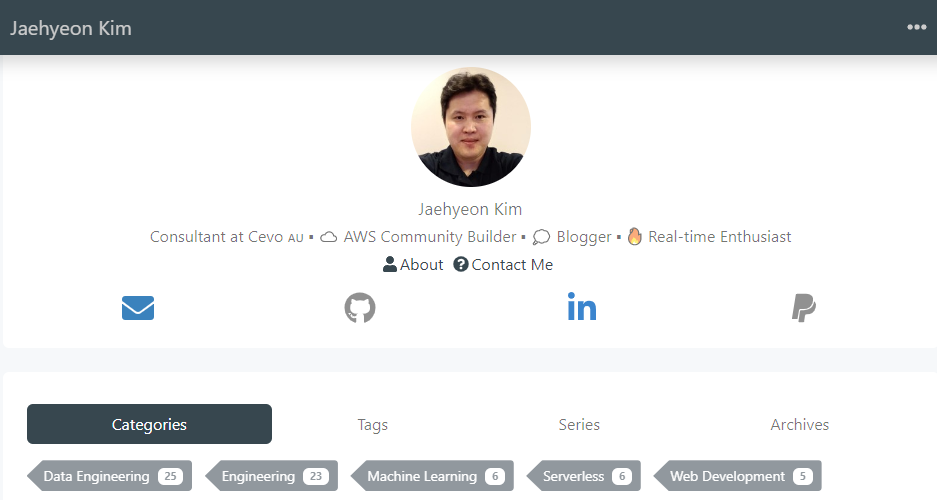
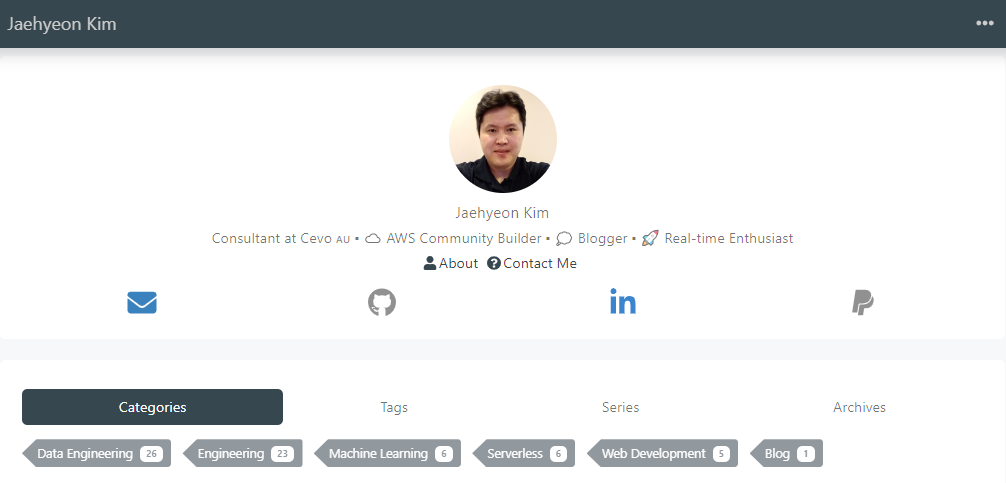
update config

diff --git a/README.md b/README.md
@@ -1,121 +1,5 @@
-# Hugo Theme Bootstrap Skeleton
+## Jaehyeon's Website
 
-The starter template for [Hugo Bootstrap Theme](https://github.com/razonyang/hugo-theme-bootstrap) that install the theme as a Hugo module.
+Jaehyeon works as a consultant focused on working with customers to design and build their data and analytics solutions on AWS. He is a real-time enthusiast and writes posts on AWS, Data, Analytics, Containers and Serverless.
 
-## Demo
-
-| Platform | URL |
-|---|---|
-| Netlify | https://hbs-skeleton.netlify.app/ |
-| GitHub Pages | https://projects.razonyang.com/hugo-theme-bootstrap-skeleton/ |
-| Cloudflare Pages | https://hbs-skeleton.pages.dev/ |
-| Docker image | See also [Dockerfile](Dockerfile) |
-
-## Usage
-
-Please make sure you have install the [build tools](https://hbs.razonyang.com/v1/en/docs/getting-started/prerequisites/#build-tools) prior to using this template.
-
-**1. Clone this repository**
-
-It's recommending cloning the repo by clicking the `Use this template` button, if you're hosting your code on GitHub.
-
-You can also clone it manually.
-
-```shell
-$ git clone https://github.com/razonyang/hugo-theme-bootstrap-skeleton.git blog
-$ cd blog
-$ rm -rf .git
-$ git init -b main
-```
-
-> The `rm -rf .git` is a dangerous action, please make sure that you enter the right folder.
-
-**2. Modify the `go.mod`**
-
-Replace the following line to yours, such as `module github.com/user/repo`.
-
-```text
-module github.com/razonyang/hugo-theme-bootstrap-skeleton
-```
-
-**3. Commit and push changes to your repository**
-
-```shell
-$ git add -A
-$ git commit -m 'First commit'
-$ git remote set-url origin github.com/user/repo
-$ git push origin main
-```
-
-## Go Proxy(Optional)
-
-If you're located at China mainland without VPN, the Hugo module download may fail.
-
-There are two proxies for this: [GOPROXY.CN](https://goproxy.cn) and [GOPROXY.IO](https://goproxy.io).
-
-```bash
-$ export HUGO_MODULE_PROXY=https://goproxy.cn
-```
-
-> Please note that, Hugo doesn't respect the `GOPROXY` env var, please use `HUGO_MODULE_PROXY` instead.
-
-You can also set the `module.proxy` instead of using env var.
-
-```yaml
-module:
-  proxy: https://goproxy.cn
-```
-
-## Server
-
-**1. Install dependencies**
-
-```shell
-$ npm i
-```
-
-Generally, this step only needs to be performed once for each local project.
-
-**2. Start server**
-
-```shell
-$ hugo server
-```
-
-## Upgrade theme
-
-```shell
-$ hugo mod get github.com/razonyang/hugo-theme-bootstrap@master
-$ hugo mod npm pack
-$ npm update
-$ git add go.mod go.sum package.json package-lock.json
-$ git commit -m 'Update the theme'
-```
-
-You can also replace the `master` with stable [releases](https://github.com/razonyang/hugo-theme-bootstrap/releases).
-
-## Deployment
-
-> The `baseURL` is very important, the CSS, JS and Sitemap require it to be set.
-
-**Please make sure you've change the `baseURL` on `config/production/config.yaml` before deploying your site.**
-
-**Please also remove the `-b {url}` from the following files if you're using this template.**
-
-- `.github/workflows/gh-pages.yml`
-
-This template supports GitHub Pages, Docker image, Netlify out-of-box. See also [Deployment](https://hbs.razonyang.com/v1/en/docs/deployment/) for getting more detail.
-
-The following parameters also need to be tweaked.
-
-- Replace the `utterances.repo` with your own to get notified when someone comments.
-- Modify the `repo` to your own, or delete it if it's unused.
-- `contact.endpoint`.
-
-There are some hooks under the `layouts/partials/hooks` folder for showing how to use them, please feel free to delete them.
-
-## Documentations
-
-- [English](https://hbs.razonyang.com/v1/en/)
-- [简体中文](https://hbs.razonyang.com/v1/zh-hans/)
-- [繁體中文](https://hbs.razonyang.com/v1/zh-hant/)
+![](./public/site-feature-image.png)

diff --git a/HowTo.md b/HowTo.md
@@ -1,0 +1,121 @@
+# Hugo Theme Bootstrap Skeleton
+
+The starter template for [Hugo Bootstrap Theme](https://github.com/razonyang/hugo-theme-bootstrap) that install the theme as a Hugo module.
+
+## Demo
+
+| Platform | URL |
+|---|---|
+| Netlify | https://hbs-skeleton.netlify.app/ |
+| GitHub Pages | https://projects.razonyang.com/hugo-theme-bootstrap-skeleton/ |
+| Cloudflare Pages | https://hbs-skeleton.pages.dev/ |
+| Docker image | See also [Dockerfile](Dockerfile) |
+
+## Usage
+
+Please make sure you have install the [build tools](https://hbs.razonyang.com/v1/en/docs/getting-started/prerequisites/#build-tools) prior to using this template.
+
+**1. Clone this repository**
+
+It's recommending cloning the repo by clicking the `Use this template` button, if you're hosting your code on GitHub.
+
+You can also clone it manually.
+
+```shell
+$ git clone https://github.com/razonyang/hugo-theme-bootstrap-skeleton.git blog
+$ cd blog
+$ rm -rf .git
+$ git init -b main
+```
+
+> The `rm -rf .git` is a dangerous action, please make sure that you enter the right folder.
+
+**2. Modify the `go.mod`**
+
+Replace the following line to yours, such as `module github.com/user/repo`.
+
+```text
+module github.com/razonyang/hugo-theme-bootstrap-skeleton
+```
+
+**3. Commit and push changes to your repository**
+
+```shell
+$ git add -A
+$ git commit -m 'First commit'
+$ git remote set-url origin github.com/user/repo
+$ git push origin main
+```
+
+## Go Proxy(Optional)
+
+If you're located at China mainland without VPN, the Hugo module download may fail.
+
+There are two proxies for this: [GOPROXY.CN](https://goproxy.cn) and [GOPROXY.IO](https://goproxy.io).
+
+```bash
+$ export HUGO_MODULE_PROXY=https://goproxy.cn
+```
+
+> Please note that, Hugo doesn't respect the `GOPROXY` env var, please use `HUGO_MODULE_PROXY` instead.
+
+You can also set the `module.proxy` instead of using env var.
+
+```yaml
+module:
+  proxy: https://goproxy.cn
+```
+
+## Server
+
+**1. Install dependencies**
+
+```shell
+$ npm i
+```
+
+Generally, this step only needs to be performed once for each local project.
+
+**2. Start server**
+
+```shell
+$ hugo server
+```
+
+## Upgrade theme
+
+```shell
+$ hugo mod get github.com/razonyang/hugo-theme-bootstrap@master
+$ hugo mod npm pack
+$ npm update
+$ git add go.mod go.sum package.json package-lock.json
+$ git commit -m 'Update the theme'
+```
+
+You can also replace the `master` with stable [releases](https://github.com/razonyang/hugo-theme-bootstrap/releases).
+
+## Deployment
+
+> The `baseURL` is very important, the CSS, JS and Sitemap require it to be set.
+
+**Please make sure you've change the `baseURL` on `config/production/config.yaml` before deploying your site.**
+
+**Please also remove the `-b {url}` from the following files if you're using this template.**
+
+- `.github/workflows/gh-pages.yml`
+
+This template supports GitHub Pages, Docker image, Netlify out-of-box. See also [Deployment](https://hbs.razonyang.com/v1/en/docs/deployment/) for getting more detail.
+
+The following parameters also need to be tweaked.
+
+- Replace the `utterances.repo` with your own to get notified when someone comments.
+- Modify the `repo` to your own, or delete it if it's unused.
+- `contact.endpoint`.
+
+There are some hooks under the `layouts/partials/hooks` folder for showing how to use them, please feel free to delete them.
+
+## Documentations
+
+- [English](https://hbs.razonyang.com/v1/en/)
+- [简体中文](https://hbs.razonyang.com/v1/zh-hans/)
+- [繁體中文](https://hbs.razonyang.com/v1/zh-hant/)

diff --git a/content/about/index.md b/content/about/index.md
@@ -9,4 +9,4 @@ postDate = true
 readingTime = false
 +++
 
-Jaehyeon works as a consultant focused on working with customers to design and build their data and analtyics solutions on AWS.
+Jaehyeon works as a consultant focused on working with customers to design and build their data and analytics solutions on AWS. He is a real-time enthusiast and writes posts on AWS, Data, Analytics, Containers and Serverless.
